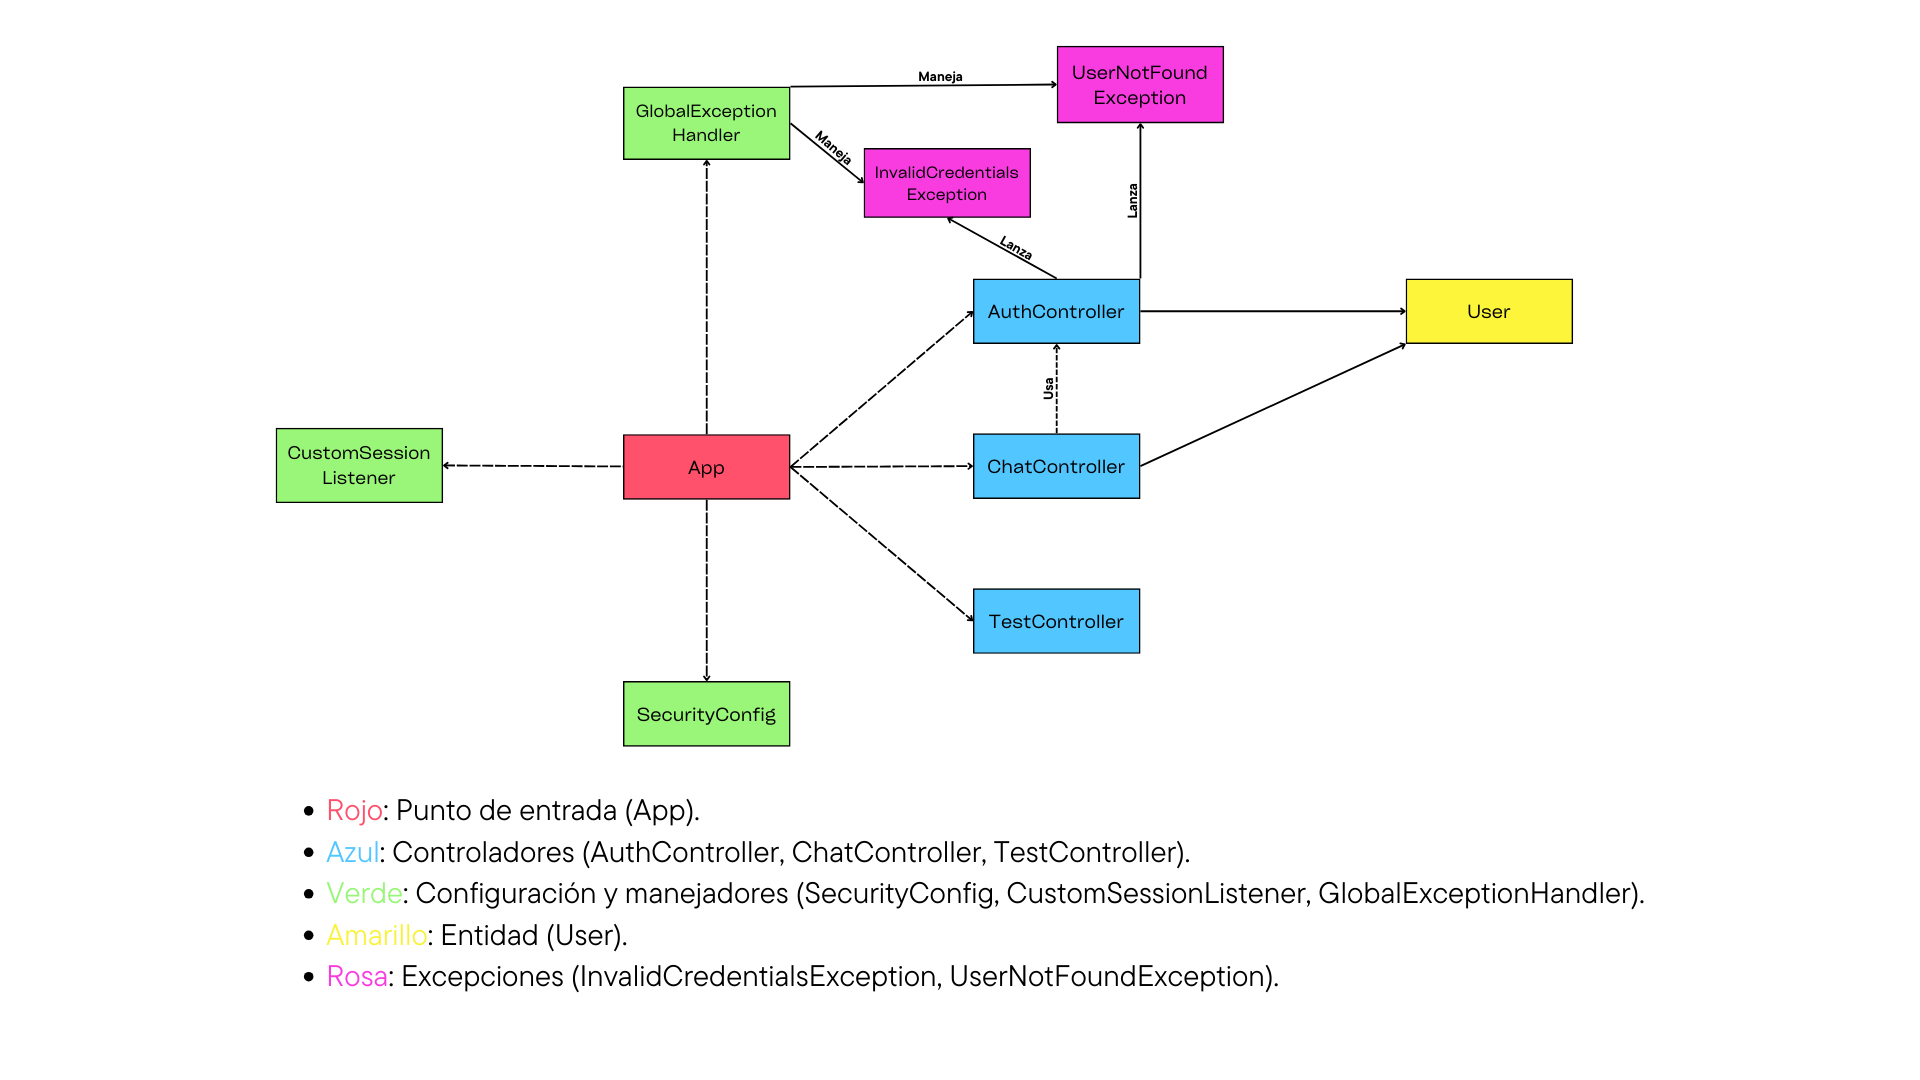
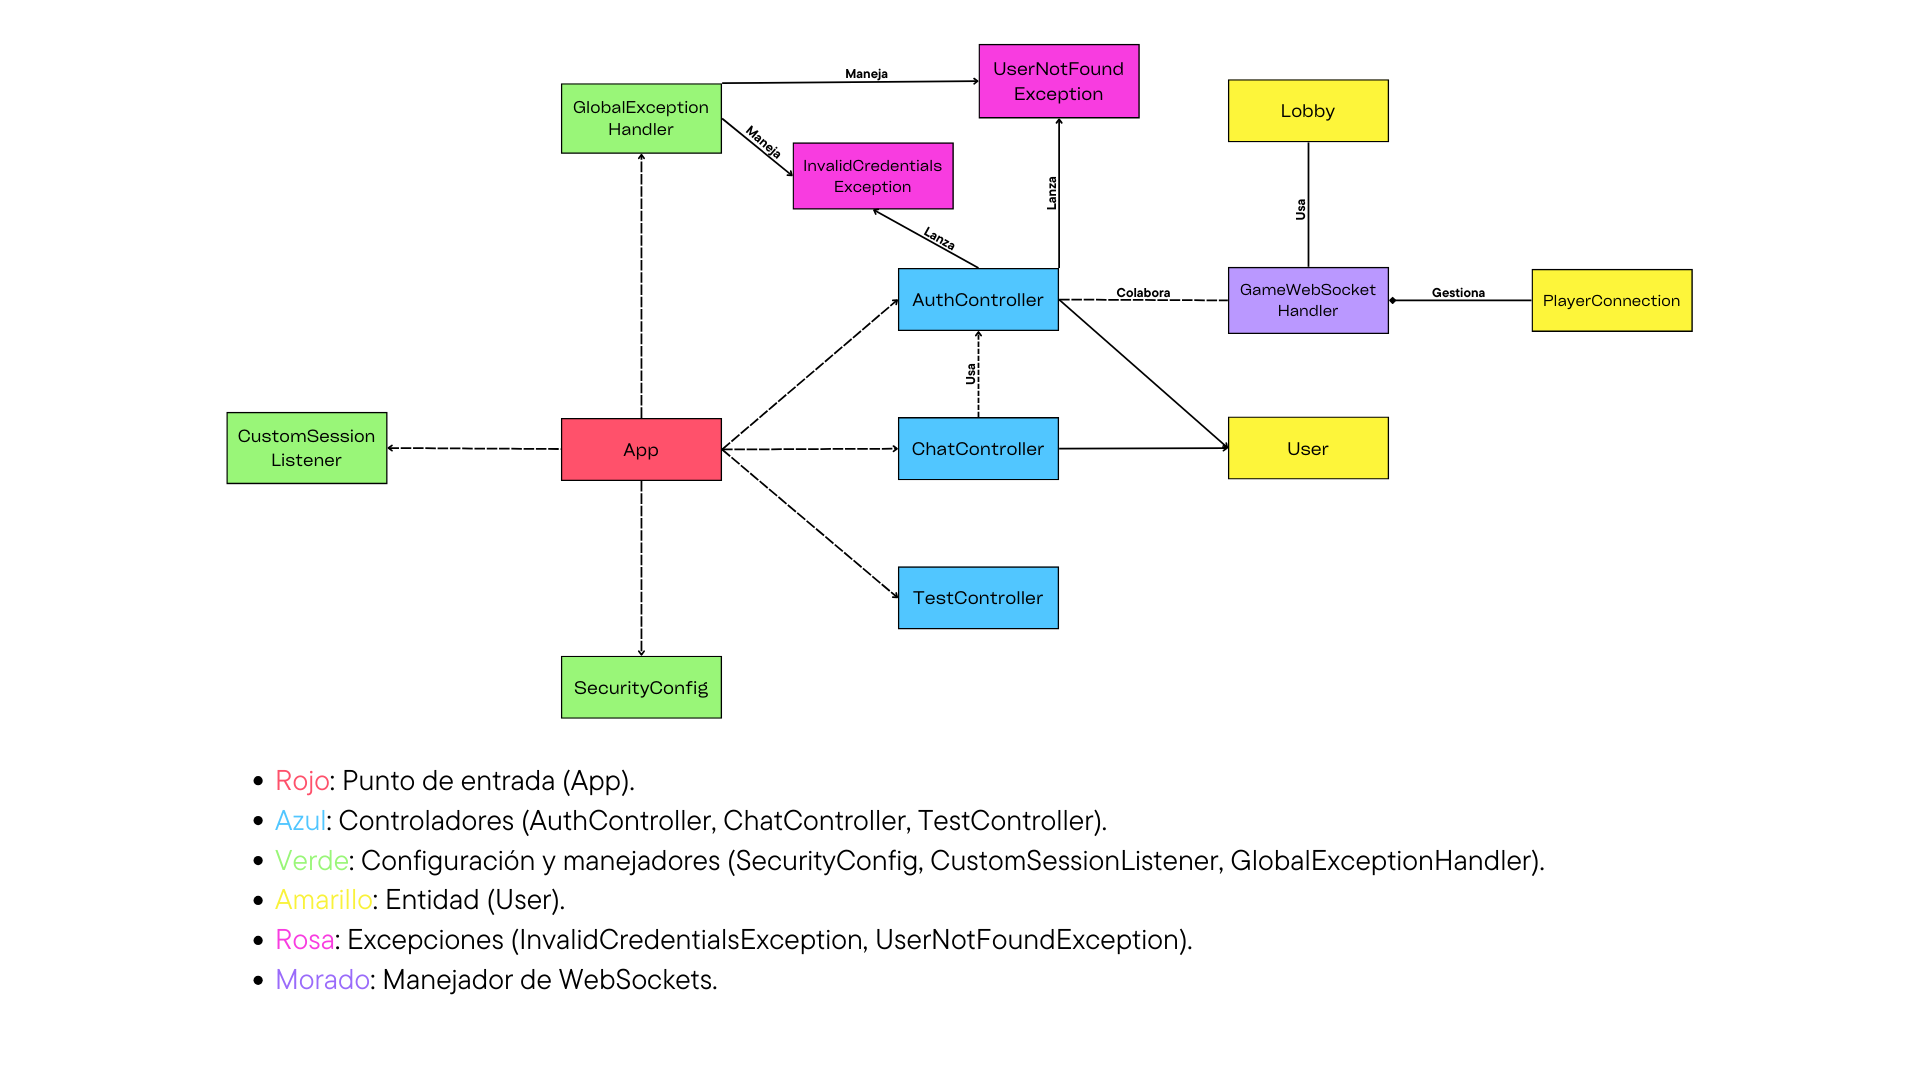
Nuevo diagrama de clases

diff --git a/README.md b/README.md
@@ -244,6 +244,17 @@ Los **controladores** (en azul), anotados con *@RestController*, tienen una rela
 
 Además, **existen relaciones** de dependencia (líneas discontinuas con flechas) entre *App* y las configuraciones (*SecurityConfig y CustomSessionListener, anotadas con @Configuration y @WebListener*), porque son cargadas en el contexto de Spring. *ChatController* tiene una **dependencia** con *AuthController* para verificar sesiones de usuario, reflejando una colaboración entre controladores. En conjunto, estas relaciones muestran una arquitectura organizada en capas, donde los controladores gestionan la lógica HTTP, las configuraciones definen el comportamiento global de la aplicación, y el manejo de excepciones garantiza un funcionamiento robusto y consistente.
 
+La nueva funcionalidad introduce una arquitectura basada en WebSockets para soportar comunicación en tiempo real entre jugadores en partidas multijugador. Esta ampliación complementa la API REST existente para proporcionar una experiencia sincronizada y ágil en las partidas.
+
+El manejador principal de WebSockets es la clase GameWebSocketHandler, que gestiona las conexiones de los jugadores, recibe mensajes del cliente, y sincroniza el estado del juego en tiempo real. Este manejador colabora estrechamente con Lobby, que representa las salas de juego y contiene la lógica específica de las partidas. Además, se utiliza la clase PlayerConnection para rastrear las sesiones activas de los jugadores y sus asociaciones con las salas.
+
+El flujo de conexión es el siguiente:
+
+Los jugadores establecen una conexión WebSocket, que es gestionada por GameWebSocketHandler.
+Los mensajes enviados por los jugadores son procesados y delegados al Lobby correspondiente.
+El estado del juego (movimientos, interacciones) se sincroniza entre los jugadores mediante mensajes en tiempo real.
+Al desconectarse un jugador, el sistema actualiza el estado del juego y termina la conexión asociada.
+
 # 13. Protocolo WebSocket
 
 Para el protocolo de los WebSockets usamos los 2 primeros caracteres como código indicador de qué es el mensaje. Estos 2 caracteres los dividimos, siendo el primero el que indica la escena y el segundo la accion de la escena.
